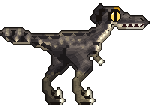
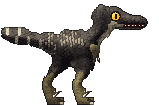
Troodon painted in HD: charcoal feathers flecked at their tips
The drawing's pale flecks become pale feather tips (Tract.TipElse), the
tail's bars cross its long feathers, the pale throat is kept, the great
eye is painted in the drawing's two ambers so the game still finds and
redraws it. Upper teeth above the jaw line (drawnTeeth).

Changed region(s): [[0.0, 0.0286, 0.956, 1.0]]

diff --git a/internal/dinopaint/troodon.go b/internal/dinopaint/troodon.go
@@ -1,0 +1,178 @@
+package dinopaint
+
+import (
+	"image/color"
+	"math"
+)
+
+// Troodon: dinos/troodon.png, 53 x 35, facing right: the night hunter,
+// charcoal flecked with pale, a pale throat, a barred fan on its stiff
+// tail and a huge amber eye. Its rig is "troodon" in
+// internal/client/dinorigs.go: hips (28, 19) and (20, 19), knees (29.5, 24)
+// and (20, 23.5), ankles (25.5, 28) and (15.5, 27.5); the legs are cut from
+// row 22, columns 23-32 (near) and 13-22 (far); the head turns about
+// (34.5, 10.5), the jaw opens about (40.5, 9) along the line to
+// (48.5, 9.4), and the tail turns about (17, 14.5).
+//
+// The game finds the eye by its two ambers, which nothing else may use, and
+// draws it again in every pose (internal/client/troodon.go: eyeOf,
+// redrawEye): the painting marks it with them.
+
+func init() { Register(troodon()) }
+
+// The eye's two ambers, as in the drawing.
+var troodonAmber = [2]color.NRGBA{rgb(0xffb71e), rgb(0xffdd62)}
+
+func troodon() *Species {
+	farLeg := Union(
+		Cone(20, 19.6, 2.7, 20, 23.5, 2.0),
+		Cone(20, 23.5, 1.8, 15.8, 27.5, 1.1),
+		Cone(15.8, 27.5, 1.0, 16.3, 32.9, 0.85),
+		Cone(16.3, 33.3, 0.85, 19.9, 33.6, 0.55),
+		Cone(17, 32.6, 0.6, 18.4, 31.6, 0.45),
+	)
+	nearLeg := Union(
+		Cone(28, 19.6, 2.9, 29.3, 23.8, 2.1),
+		Cone(29.3, 23.8, 1.9, 25.8, 28, 1.1),
+		Cone(25.8, 28, 1.0, 26.4, 32.9, 0.85),
+		Cone(26.4, 33.3, 0.85, 29.9, 33.6, 0.55),
+		Cone(27, 32.6, 0.6, 28.4, 31.6, 0.45),
+	)
+	body := Blend(2,
+		Path([3]float64{19, 13.6, 3.2}, [3]float64{10, 12.6, 2.0}, [3]float64{0.5, 11.8, 2.0}), // the stiff tail
+		Ellipse(25, 15.4, 7.5, 4.6, 0.05),
+		Cone(30, 13, 3.2, 35, 6.5, 2.4), // the neck
+		Poly(32, 2, 34, 1.6, 39, 2.4, 45, 4.6, 49, 5.5, 49.5, 7.5, 47, 8.6, 39, 9, 36, 10, 33, 10, 31, 6), // the head
+	)
+	jaw := Poly(38, 8.9, 48.5, 9.0, 47.5, 9.9, 39, 10.1)
+	arm := Union(
+		Cone(31, 16, 1.4, 32.2, 18.4, 1.0),
+		Cone(32.2, 18.6, 0.8, 32.8, 19.6, 0.55),
+	)
+	return &Species{
+		Name:        "troodon",
+		GuideDetail: 0.3,
+		Ink:         22,
+		Materials: []Material{
+			{Name: "char", Seeds: []uint32{0x383335, 0x4a4343, 0x5f5653, 0x282426, 0x1b1819, 0x7a6f68},
+				Ramp: []uint32{0x0e0c0e, 0x171416, 0x211d1e, 0x2d2827, 0x3b3532, 0x4b443f, 0x5d554e, 0x71685e}},
+			{Name: "fleck", Seeds: []uint32{0x9a8c76, 0x8c7f6c},
+				Ramp: []uint32{0x2e2824, 0x423a32, 0x574d42, 0x6e6252, 0x857762, 0x9a8b72, 0xae9f84, 0xc0b296}, Bias: 0.12, Smooth: 0.5},
+			{Name: "pale", Seeds: []uint32{0xb0a48c, 0xd0c6ac},
+				Ramp: []uint32{0x3a342c, 0x564e42, 0x726858, 0x8e836e, 0xa89c84, 0xbeb398, 0xd2c8ae, 0xe4dcc4}, Bias: 0.13},
+			{Name: "olive", Seeds: []uint32{0x716650, 0x524a3c, 0x35302a, 0x8f8366},
+				Ramp: []uint32{0x1e1a14, 0x2c261c, 0x3c3426, 0x4e4430, 0x62563a, 0x766a46, 0x8a7d54, 0x9e9064}},
+			{Name: "white", Seeds: []uint32{0xe2dcc6, 0xf0ead8},
+				Ramp: []uint32{0x4e4440, 0x6e6458, 0x948a7a, 0xb4aa96, 0xcec6b0, 0xe2dcc8, 0xf0ecdc, 0xfffcf0}},
+			{Name: "eye", Seeds: []uint32{0xffb71e, 0xffdd62},
+				Ramp: []uint32{0x5a2a04, 0x8e4a08, 0xc87a12, 0xeea226, 0xf2c64c, 0xf6dc86, 0xf8e6a4, 0xfaf0c4}},
+			{Name: "gum", Seeds: []uint32{0x2a1012},
+				Ramp: []uint32{0x14070a, 0x1e0a0d, 0x2a1012, 0x381618, 0x461c1e, 0x542226, 0x62282c, 0x703034}},
+		},
+		Recolor: []Recolor{
+			{Region: Poly(32.2, 19.4, 35, 19.4, 35, 22, 32.2, 22), From: []string{"white"}, To: "olive"},
+			{Region: Poly(18.4, 29.4, 22, 29.4, 22, 34, 18.4, 34), From: []string{"white"}, To: "olive"},
+			{Region: Poly(28.4, 29.4, 32, 29.4, 32, 34, 28.4, 34), From: []string{"white"}, To: "olive"},
+			// The eye is painted again, round.
+			{Region: Cut(Poly(30, 0, 50, 0, 50, 12, 30, 12), Circle(38.55, 5.45, 1.7)), From: []string{"eye"}, To: "char"},
+			// The snout's lighter grey is no fleck.
+			{Region: Poly(36, 3, 50, 3, 50, 9, 36, 9), From: []string{"fleck"}, To: "char"},
+		},
+		Remove: []SDF{
+			Poly(32.4, 19.5, 34.6, 19.5, 34.6, 21.6, 32.4, 21.6), // the guide's claws, painted again
+			Poly(18.6, 29.5, 22, 29.5, 22, 32.4, 18.6, 32.4),
+			Poly(28.6, 29.5, 32, 29.5, 32, 32.4, 28.6, 32.4),
+		},
+		Parts: []Part{
+			{Name: "farLeg", Shape: farLeg, Far: true, Round: 2.2, Scale: 0.65, Muscles: []Muscle{
+				Mu(20, 20.5, 2.2, 2.4, 0, 0.8),
+			}},
+			{Name: "body", Shape: body, Round: 5.5, RoundAt: func(x, y float64) float64 { return lerp(5.5, 2.4, smoothstep(32, 37, x)) }, Muscles: []Muscle{
+				Mu(24.5, 14.5, 6, 3.5, 0, 0.7),     // the ribs
+				Mu(30.5, 13.5, 2.4, 2.8, 0.3, 0.6), // the shoulder
+				Mu(35.6, 4.6, 2.2, 1.4, 0, 0.6),    // behind the eye
+				Mu(44, 6.2, 3.4, 1.2, 0, 0.5),      // the snout
+				Mu(38.4, 3.6, 1.6, 0.7, 0, 0.6),    // the brow over the eye
+			}},
+			{Name: "jaw", Shape: jaw, Round: 0.8, Soft: 0.5, Scale: 0.55, Mat: "char"},
+			{Name: "arm", Shape: arm, Round: 1.2, Soft: 0.5, Scale: 0.6, Mat: "olive", Muscles: []Muscle{
+				Mu(31.3, 16.4, 1, 1.4, 0.4, 0.5),
+			}},
+			{Name: "nearLeg", Shape: nearLeg, Round: 2.4, Scale: 0.65, Onto: "body", Seam: Below(14, 20, 34, 19.5), Muscles: []Muscle{
+				Mu(28.2, 20.5, 2.4, 2.6, 0, 0.9),
+			}},
+		},
+		Skin: Skin{Flank: 1.2, Back: 1.5, Belly: 1.0, BackDepth: 2.5, BellyDepth: 2.5, Relief: 0.8, Seed: 41},
+		Folds: []Fold{
+			{Pts: []float64{14.9, 29, 16.6, 29}, N: 3, DY: 1.0, Depth: 0.5},
+			{Pts: []float64{24.9, 29, 26.6, 29}, N: 3, DY: 1.0, Depth: 0.5},
+		},
+		Details: troodonDetails,
+	}
+}
+
+func troodonPlumage() *Plumage {
+	return &Plumage{Seed: 11, Edge: 0.4, Tracts: []Tract{
+		{Name: "farThigh", Region: Poly(15, 17, 23, 17, 23, 26.4, 15, 26.4), Parts: []string{"farLeg"},
+			Flow: Along(20, 19, 20, 23.5, 15.5, 27.5), Len: 1.9, Wid: 1.35, Fluff: 0.4, Snap: true},
+		{Name: "body", Region: Union(Poly(12, 9, 31, 9, 35.5, 9.5, 35.5, 16, 31, 21, 15, 19), Ellipse(32.8, 6, 2.2, 3.6, 0.3)),
+			Parts: []string{"body"},
+			Flow:  Along(34, 2.6, 33, 7, 30, 11, 24, 12, 18, 12.6, 12, 12.4), Len: 2.2, Wid: 1.5, Rows: 0.45, Jitter: 0.2, Fluff: 0.5, Snap: true,
+			TipMat: "fleck", TipLen: 0.3, TipGuide: true, TipElse: "char"},
+		{Name: "crown", Region: Poly(31, 1, 37.4, 1, 37.4, 3.2, 35, 4.6, 33.4, 9.6, 30.5, 9.6), Parts: []string{"body"},
+			Flow: Along(38, 2.3, 35, 2.6, 32.6, 6, 31.6, 9.5), Len: 1.2, Wid: 0.9, Fluff: 0.35, Snap: true},
+		// The stiff tail: its feathers lie back along it, longest at the fan.
+		{Name: "tail", Region: Poly(-1, 8.5, 13, 9.4, 13.5, 12.8, 13, 15.5, -1, 15.5), Parts: []string{"body"},
+			Flow: Along(16, 12.9, 8, 12.3, 0, 11.8), Len: 2.6, Wid: 1.1, Rows: 0.36, Tip: 0.5, Shaft: 0.1, Fluff: 0.6, Grow: 0.04},
+		{Name: "nearThigh", Region: Poly(23, 17, 33, 17, 33, 26.4, 23, 26.4), Parts: []string{"nearLeg"},
+			Flow: Along(28, 19, 29.5, 24, 25.5, 28), Len: 1.9, Wid: 1.35, Fluff: 0.4, Snap: true},
+		{Name: "arm", Region: Poly(30, 14.4, 33.4, 15.6, 33.6, 19.8, 31.6, 19.6, 30.2, 16.8), Parts: []string{"arm"},
+			Flow: Along(30.6, 15.2, 31.8, 17.6, 32.7, 19.6), Len: 1.4, Wid: 1.0, Fluff: 0.3, Snap: true},
+	}}
+}
+
+func troodonDetails(p *Painter) {
+	p.Plumage(troodonPlumage())
+	p.Teeth(TeethSpec{X0: 41.4, Y0: 8.2, X1: 48.2, Y1: 8.3, Bottom: 9.02, N: 6, Len: 0.72,
+		Ramp: raptorTeeth, Gap: 0x2a1012, Seed: 17})
+	p.Lip([]float64{41, 8.2, 44.5, 8.2, 48.4, 8.3}, 8)
+	p.Nostril(47.7, 5.8, 0.45, 0.28, -0.3)
+	troodonEye(p, 38.55, 5.45)
+	p.Claw(32.7, 19.4, 33.4, 21.0, 0.7, 0.3, sickleHorn[:6])
+	// The feet: a claw on the front toe and the sickle claw held up.
+	p.Claw(19.6, 33.3, 21.4, 33.9, 0.65, 0.15, sickleHorn[:5])
+	p.Claw(18.0, 32.1, 20.5, 30.4, 1.05, -0.55, sickleHorn)
+	p.Claw(29.6, 33.3, 31.4, 33.9, 0.7, 0.15, sickleHorn[:6])
+	p.Claw(28.0, 32.1, 30.5, 30.4, 1.1, -0.55, sickleHorn)
+}
+
+// troodonEye paints the great eye about (cx, cy) in the drawing's two
+// ambers only, lit at the top left, in a dark socket: the game finds it by
+// them and draws it again over them, a little smaller.
+func troodonEye(p *Painter, cx, cy float64) {
+	const r = 1.3
+	ink := rgb(0x17120f)
+	for py := int((cy - r - 1) * K); py <= int((cy+r+1)*K); py++ {
+		for px := int((cx - r - 1) * K); px <= int((cx+r+1)*K); px++ {
+			i := p.Idx(px, py)
+			if i < 0 || !p.In[i] {
+				continue
+			}
+			x, y := G(px, py)
+			d := math.Hypot(x-cx, y-cy)
+			switch {
+			case d <= r && math.Abs(x-cx-0.1) < 0.3 && math.Abs(y-cy) < 0.95:
+				p.Out[i] = rgb(0x120a04) // the slit of the pupil
+			case d <= r && x-cx+y-cy < -0.5:
+				p.Out[i] = troodonAmber[1]
+			case d <= r:
+				p.Out[i] = troodonAmber[0]
+			case d <= r+0.45:
+				p.Out[i] = ink
+			default:
+				continue
+			}
+			p.Pro[i] = true
+		}
+	}
+}

diff --git a/internal/dinopaint/feather.go b/internal/dinopaint/feather.go
@@ -45,6 +45,7 @@ type Tract struct {
 	Camber   float64 // how much a vane curves over its shaft (0: 0.05, or 0.13 with a shaft)
 	TipMat   string  // the tips of the feathers are this material (a pale fringe, a dark edge)
 	TipGuide bool    // only where the drawing has that material near the tip
+	TipElse  string  // and the drawing's marks of it that are not at a tip become this: flecks made feather tips
 	TipLen   float64 // how far down from the tip, in feather lengths (0: 0.2)
 	Mat      string  // all its feathers this material ("": the guide's)
 }
@@ -446,8 +447,11 @@ func (p *Painter) Plumage(pl *Plumage) {
 			if tl == 0 {
 				tl = 0.2
 			}
-			if o.u > 1-tl && (!tr.TipGuide || q.tipMarked(o.f, tr)) {
-				p.Mat[i] = p.MatID(tr.TipMat)
+			switch tip := p.MatID(tr.TipMat); {
+			case o.u > 1-tl && (!tr.TipGuide || q.tipMarked(o.f, tr)):
+				p.Mat[i] = tip
+			case tr.TipElse != "" && p.Mat[i] == tip:
+				p.Mat[i] = p.MatID(tr.TipElse)
 			}
 		}
 		if len(tr.Parts) > 0 && o.f.part >= 0 {
@@ -614,7 +618,7 @@ func (q *plumage) tipMarked(f *feather, tr *Tract) bool {
 	if f.tip == 0 {
 		f.tip = 2
 		m := q.p.MatID(tr.TipMat)
-		r := 0.75
+		r := 0.55
 		for py := int((f.ty - r) * K); py <= int((f.ty+r)*K); py++ {
 			for px := int((f.tx - r) * K); px <= int((f.tx+r)*K); px++ {
 				x, y := G(px, py)

diff --git a/internal/client/dinorigs.go b/internal/client/dinorigs.go
@@ -103,11 +103,12 @@ var dinoRigs = map[string]dinoRig{
 			hind(23, 32, 22, rigPt{28, 19}, rigPt{29.5, 24}, rigPt{25.5, 28}, rigPt{26.5, 33.5}, rigPt{32, 34.5}),
 			hind(13, 22, 22, rigPt{20, 19}, rigPt{20, 23.5}, rigPt{15.5, 27.5}, rigPt{16.5, 33.5}, rigPt{21.5, 34.5}),
 		},
-		head:  rigPart{pivot: rigPt{34.5, 10.5}, dir: headUp(0.5), maxY: 13},
-		jaw:   [2]rigPt{{40.5, 9}, {48.5, 9.4}},
-		tail:  rigPart{pivot: rigPt{17, 14.5}, dir: math.Pi, maxY: 19},
-		teeth: true,
-		far:   0b10,
+		head:       rigPart{pivot: rigPt{34.5, 10.5}, dir: headUp(0.5), maxY: 13},
+		jaw:        [2]rigPt{{40.5, 9}, {48.5, 9.4}}, // the upper teeth are above this line, in the drawing
+		tail:       rigPart{pivot: rigPt{17, 14.5}, dir: math.Pi, maxY: 19},
+		drawnTeeth: true,
+		teeth:      true,
+		far:        0b10,
 	},
 	"rex": {
 		file: "rex", stride: 4,
